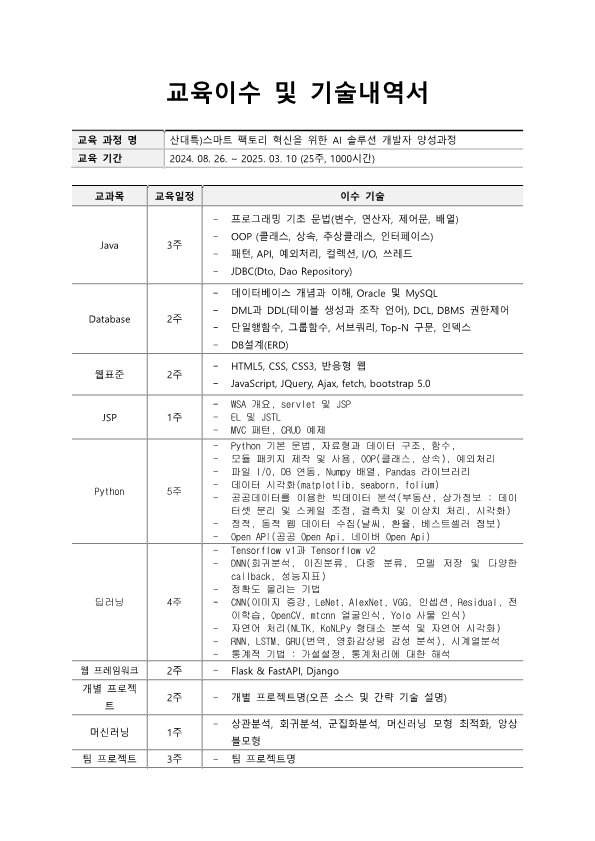
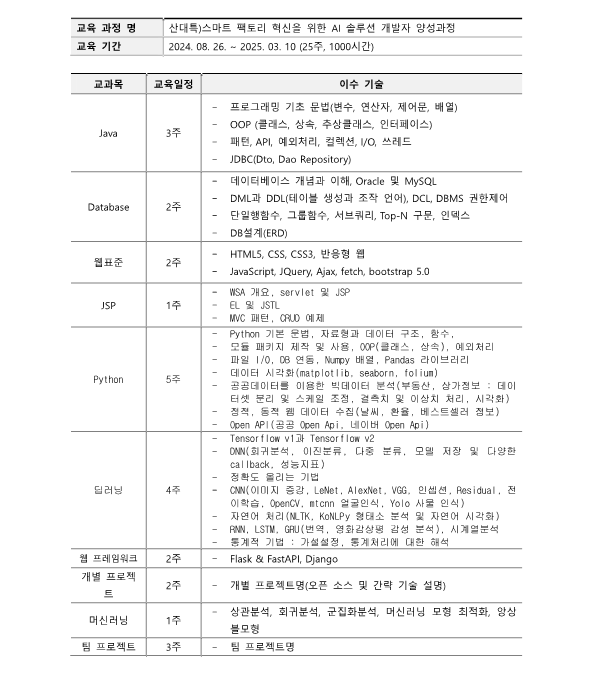
readme수정

diff --git a/README.md b/README.md
@@ -1,16 +1,17 @@
 # (산대특) 스마트 팩토리 혁신을 위한 AI 솔루션 개발 양성과정을 위한 공유 자료실
 
 방문해 주셔서 감사합니다.
-
 본 공유공간은 MBC 아카데미에서 운영하는
-
 "(산대특)스마트 팩토리 혁신을 위한 AI 솔루션 개발 양성과정" 훈련생을 위한 공유의 장입니다.
 
 <span style="color:red"><b>본 레파지트리는 수료(25.3.7) 시점에 폐쇄될 예정이니 미리 다운받아 주셔요</b></span>
 
-![교육이수내역](https://github.com/user-attachments/assets/b568e08d-5272-4bdb-ab38-ac20e014cc33)
 
- # 📚 SKIL
+# 교육이수 기술 내역서
+![교육이수기술내역서](https://github.com/user-attachments/assets/d949939d-1d65-4544-bc5c-ea4976dbce5d)
+
+
+# 📚 SKIL
  ### Programming
 <div>
   <img src="https://img.shields.io/badge/java-007396?style=for-the-badge&logo=eclipse&logoColor=white">
